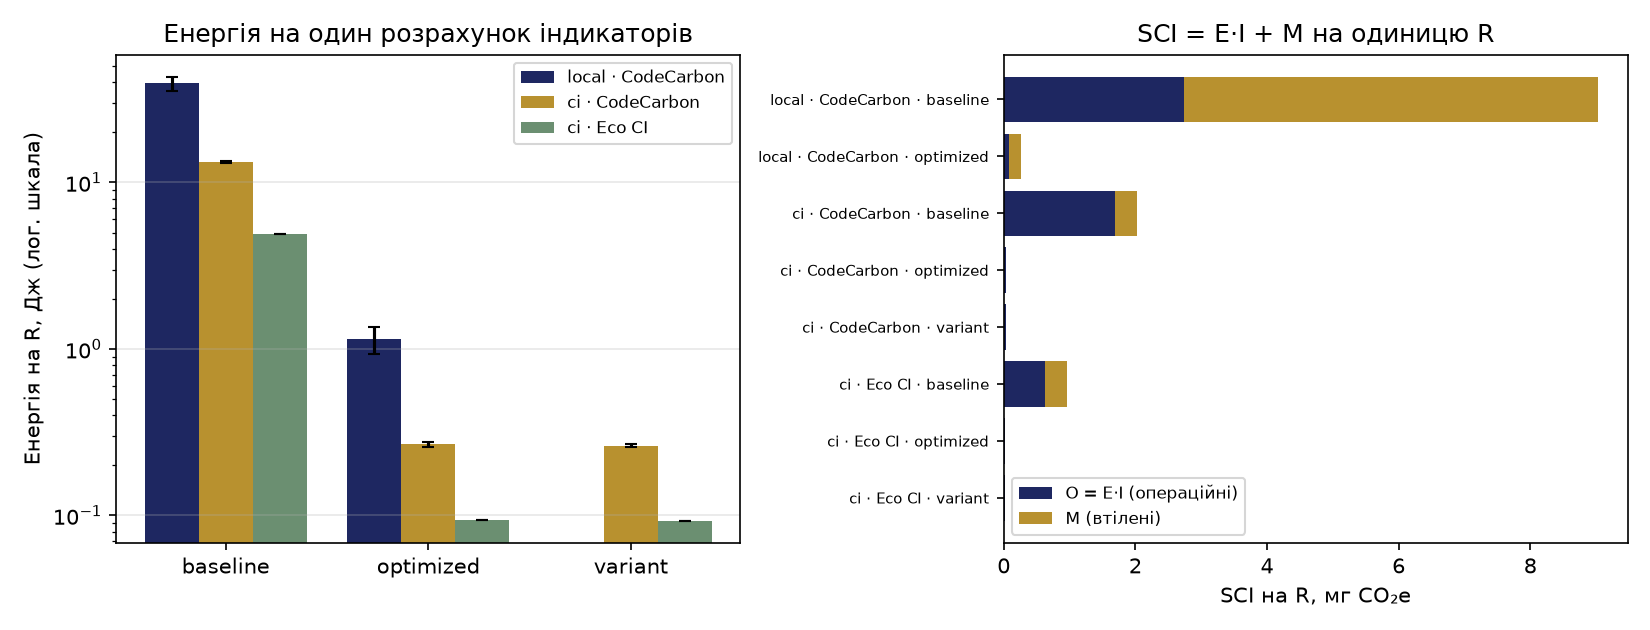
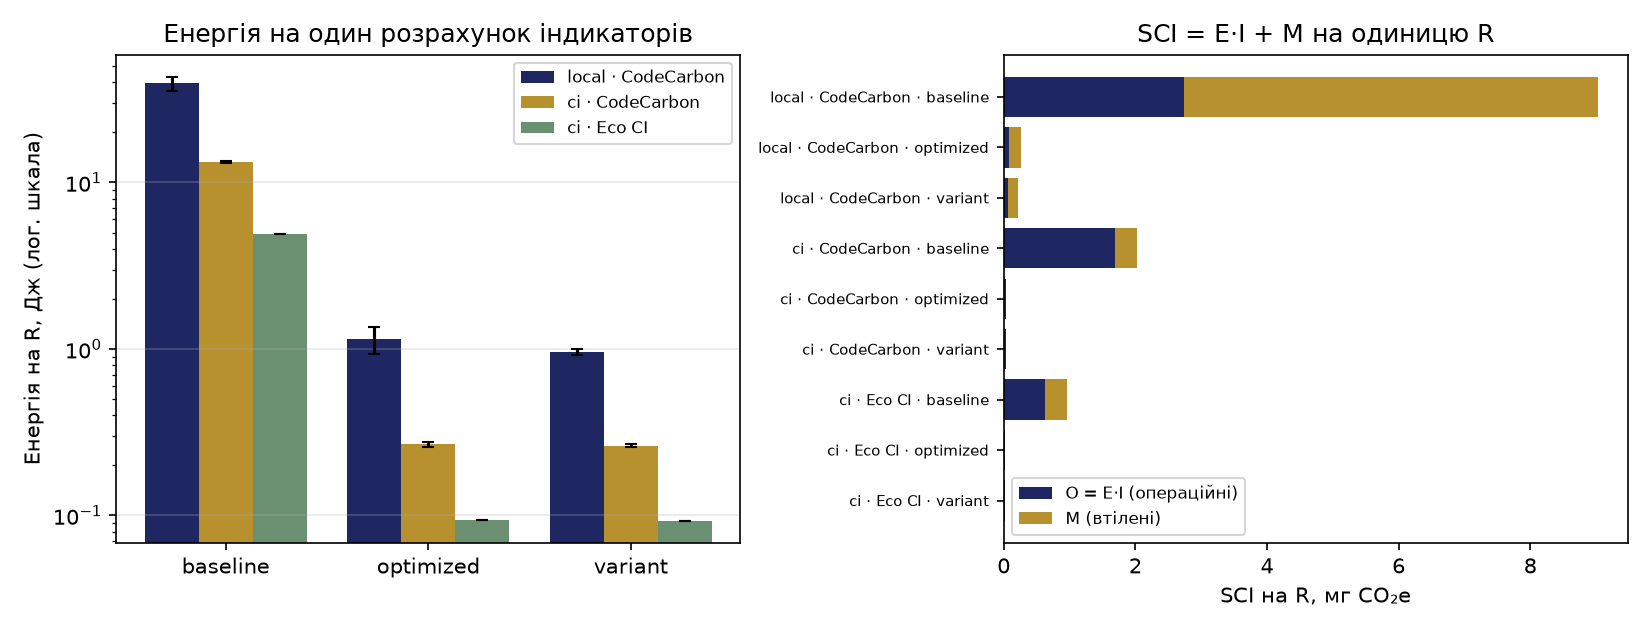
ПЗ6: README, висновки, власний CI, локальний variant

diff --git a/pr6/README.md b/pr6/README.md
@@ -1,61 +1,206 @@
 # ПР6. Вимірювання вуглецевої інтенсивності ПЗ
 
-**Студент:** ПІБ, група  
-**Варіант:** № __ — назва  
-**Дата:** __.__.____
+**Студент:** Костюченко Анастасія, група М УП(кн) 2026-1  
+**Варіант:** № 8 — кешування залежностей pip у CI (`cache: pip`)  
+**Дата:** 12.11.2026
 
 ## 1. Об'єкт і функціональна одиниця
 
-Що вимірюємо (навантаження), функціональна одиниця R,
-версії коду (baseline, optimized, variant) і чим вони відрізняються.
+Навантаження — розрахунок індикаторів якості повітря за щогодинними
+концентраціями PM2.5 (вибірка для двох міст, 2021–2023 рр.): середньорічна
+концентрація, кількість валідних днів, днів вище норми, повнота даних і рівень ВООЗ.
+
+**Функціональна одиниця R** — один повний розрахунок індикаторів (одна репліка бенчмарку).
+
+Версії коду:
+
+- `baseline` — базова реалізація (повільна);
+- `optimized` — оптимізована реалізація, що дає той самий результат
+  (перевірено `python measure.py verify`: «OK: optimized дає той самий результат»);
+- `variant` — варіант 8; код не змінювався, змінюється лише конвеєр CI
+  (кеш pip), тому `variant` і `optimized` у CI збігаються.
 
 ## 2. Середовища і спосіб вимірювання
 
 | | Локально | GitHub Actions |
 |---|---|---|
-| ОС, процесор | | ubuntu-latest, ___ vCPU (репозиторій публічний / приватний), процесор: ___ |
-| Інструмент | CodeCarbon 3.3.2 | Eco CI v5.3.0 + CodeCarbon |
-| Спосіб для CPU (`measure.py check`) | вимір / оцінка: ___ | оцінка |
-| Потужність простою, Вт | | |
+| ОС, процесор | Windows 10, Intel Core i5-1035G1 @ 1,00 ГГц, ноутбук HP 250 G8 | ubuntu-latest (Linux, Azure), 4 vCPU (публічний репозиторій), процесор Intel Xeon Platinum 8370C @ 2,80 ГГц |
+| Інструмент | CodeCarbon 3.3.2 | Eco CI v5.3.0 + CodeCarbon 3.3.2 |
+| Спосіб для CPU (`measure.py check`) | оцінка: `cpu_load` (за завантаженням і TDP = 15 Вт); RAM = 10 Вт — завжди оцінка | оцінка: `cpu_load` (TDP у вимірюваннях 16 Вт; `check` показує 205 Вт цілого процесора); RAM = 10 Вт |
+| Потужність простою, Вт | 11,69 (CodeCarbon) | 11,60 (CodeCarbon); 2,96 (Eco CI) |
 | Інтенсивність мережі I, гCO₂e/кВт·год | 250,47 (Україна, Ember 2022) | 458,29 (світ, Ember 2025) |
 
-Чому `send-data: false` і `OfflineEmissionsTracker` — одним-двома реченнями.
+Формула потужності CodeCarbon у режимі `cpu_load`: P = TDP·(0,1 + 0,9·L³) + P_RAM.
+У простої L ≈ 0, тому P ≈ 15·0,1 + 10 = 11,5 Вт, що збігається з виміряними 11,5–12,1 Вт:
+значна частина «виміряної» потужності — це стала оцінка RAM.
+
+Вимірювання виконувалось без передавання даних назовні: CodeCarbon працює через
+`OfflineEmissionsTracker` (без запитів до зовнішніх API), а в Eco CI задано
+`send-data: false` і `display-badge: false`. Так результати не залежать від мережі
+й не залишають середовище.
+
+Втілені викиди: ноутбук TE = 238 кгCO₂e, EL = 4 роки. Окремого PCF-звіту для HP 250 G8
+не знайдено, тому взято найближчий аналог тієї ж лінійки (HP 250R G9: 280 кгCO₂e усього,
+42 кг — етап використання; TE = 280 − 42 = 238) — це **оцінка**. Раннер: частка серверних
+викидів за vCPU (1151,7 кгCO₂e · 4/128).
+
+**Джерела параметрів SCI:**
+
+- Вуглецева інтенсивність мережі: Ember, Yearly Electricity Data, через Our World in Data —
+  <https://ourworldindata.org/grapher/carbon-intensity-electricity> (Україна 250,47 за 2022 р.;
+  світ 458,29 за 2025 р.).
+- Втілені викиди ноутбука (аналог для HP 250 G8): PCF HP 250R G9 (280 кгCO₂e, з них 42 кг —
+  використання) за даними Bechtle —
+  <https://media.bechtle.com/asrc/180712/1c4b3d4ee288fc9434f5175bf56070570/c3/-/c2da43f778ee437d9528aba847448e0c/hp-250r-g9-c3-8-256gb-co2-information>.
+- Втілені викиди серверного процесора раннера (AMD EPYC 7763, 1151,7 кгCO₂e): Boavizta, як у коді
+  Eco CI v5.3.0.
+- Методика: лекція 6 курсу та ISO/IEC 21031:2024 (SCI).
 
 ## 3. Результати
 
-Таблиця з `results/summary.csv` (E на R з 95 % довірчим інтервалом,
-час на R, потужність, O, M, SCI) і рисунок `reports/figures/energy_sci.png`.
+Таблиця з `results/summary.csv` (енергія на одну одиницю R, 95 % довірчий інтервал,
+час на R, потужність, SCI), рисунок — `reports/figures/energy_sci.png`.
 
-| Джерело | Версія | E на R, Дж | ±95 % | t на R, с | SCI на R, мг CO₂e |
-|---|---|---|---|---|---|
-| | | | | | |
+| Джерело | Версія | n | E на R, Дж | ±95 % | t на R, с | P, Вт | SCI на R, мг CO₂e |
+|---|---|---|---|---|---|---|---|
+| local · CodeCarbon | baseline | 5 | 39,389 | 3,775 | 3,3311 | 11,81 | 9,0255 |
+| local · CodeCarbon | optimized | 5 | 1,148 | 0,216 | 0,0954 | 11,98 | 0,2599 |
+| local · CodeCarbon | variant | 5 | 0,962 | 0,043 | 0,0832 | 11,56 | 0,2239 |
+| ci · CodeCarbon | baseline | 3 | 13,303 | 0,130 | 1,1650 | 11,42 | 2,0259 |
+| ci · CodeCarbon | optimized | 3 | 0,268 | 0,010 | 0,0223 | 12,03 | 0,0405 |
+| ci · CodeCarbon | variant | 3 | 0,263 | 0,005 | 0,0222 | 11,84 | 0,0398 |
+| ci · Eco CI | baseline | 1 | 4,882 | — | 1,1930 | 4,09 | 0,9619 |
+| ci · Eco CI | optimized | 1 | 0,094 | — | 0,0229 | 4,09 | 0,0185 |
+| ci · Eco CI | variant | 1 | 0,093 | — | 0,0227 | 4,09 | 0,0183 |
+
+Для Eco CI n = 1 (результати одного запуску), тому довірчий інтервал не обчислюється.
+
+![Енергія і SCI](reports/figures/energy_sci.png)
 
 ## 4. Порівняння «локально — CI»
 
-- Економія енергії й прискорення optimized/variant відносно baseline
-  в кожному середовищі — чи збігаються?
-- Eco CI проти CodeCarbon на тому самому раннері: у скільки разів
-  відрізняються оцінки потужності й чому.
-- Частка втілених викидів M у SCI для ноутбука і для раннера.
+- **Економія і прискорення** optimized відносно baseline: локально 97,1 % і 34,9× (variant: 97,6 % і 40,0×);
+  в CI (CodeCarbon) 98,0 % і 52,2×; в CI (Eco CI) 98,1 % і 52,1×. Відносна економія
+  в усіх середовищах близька, абсолютні значення різні.
+- **Eco CI проти CodeCarbon на тому самому раннері:** енергія baseline на R —
+  13,303 Дж (CodeCarbon) проти 4,882 Дж (Eco CI), тобто в 2,7 раза; потужність
+  11,42 проти 4,09 Вт (в 2,8 раза). Причина — різні моделі: CodeCarbon додає сталі 10 Вт
+  на RAM і рахує потужність CPU за TDP і завантаженням, а Eco CI використовує модель,
+  побудовану для процесора раннера.
+- **Частка втілених викидів M у SCI:** ноутбук — 69,6 % (baseline) і 69,3 % (optimized);
+  раннер — 16,4 % (CodeCarbon) і 35,4 % (Eco CI). Для ноутбука переважає M через малу
+  операційну енергію й високий TE.
 
 ## 5. Власний CI-конвеєр (ПР1–ПР3)
 
-Енергія та SCI одного запуску конвеєра за даними Eco CI;
-річна оцінка для команди (формула (10)).
+У `ci.yml` додано кроки Eco CI v5.3.0 (`start-measurement` на початку кожного job,
+`get-measurement` з мітками, `display-results` наприкінці; `send-data: false`,
+`display-badge: false`, `co2-calculation-method: constant`,
+`co2-grid-intensity-constant: 458`). Запуск CI #43 після push у main: усі п'ять jobs
+успішні, тривалість 1 хв 8 с. Енергія й SCI одного запуску — сума за jobs:
+
+| Job | Мітки, Дж | E, Дж | SCI, мг CO₂e |
+|---|---|---|---|
+| build-and-test (3.11) | install 28,54 | 28,54 | 5,625 |
+| build-and-test (3.12) | install 15,94 | 15,94 | 3,144 |
+| build-and-test (3.13) | install 46,23; tests 5,28 | 51,51 | 10,065 |
+| build-and-push-image | docker-build 44,45; docker-push 12,45 | 56,90 | 11,256 |
+| deploy | terraform-apply 60,74 | 60,74 | 11,479 |
+| **Разом за запуск** | | **213,63** | **41,569** |
+
+Дуже короткі кроки (flake8, тести в частині jobs) Eco CI не зафіксував. Матриця Python дає
+96,0 Дж (45 %), збірка образу й розгортання — 117,6 Дж (55 %).
+
+**Річна оцінка** за формулою (10): C_рік = N·SCI_запуск, N = n_розр·n_push·n_днів. За
+`git log` за 30 днів: 18 комітів за 5 робочих днів, n_push ≈ 3,6 на день (верхня оцінка,
+бо кілька комітів могли йти одним push), n_розр = 1, n_днів = 220. Тоді N = 792 запуски на рік,
+C_рік = 792·41,569 мг ≈ **32,9 г CO₂e** (енергія ≈ 169 кДж ≈ 0,047 кВт·год). Для прикладу
+з лекції (N = 22 000) — ≈ 0,91 кг CO₂e і ≈ 1,3 кВт·год.
+
+**Три способи зменшити слід** (оцінки за припущеннями в дужках):
+
+1. `paths-ignore` для файлів `.md`, каталогів `pr4/`, `pr5/` і `results` — якщо 25 % push
+   змінюють лише документацію (припущення; перевіряється `git log --name-only`),
+   економія 0,25·32,9 ≈ 8,2 г CO₂e на рік.
+2. Матриця Python: одна версія замість трьох на кожен push (три — лише перед злиттям).
+   SCI матриці 18,83 мг проти ≈ 6,28 мг для однієї версії: економія ≈ 12,56 мг на запуск
+   ≈ 9,9 г на рік (−30 %), ціна — менше покриття тестами.
+3. `concurrency` з `cancel-in-progress: true`: якщо кожен десятий запуск скасовується
+   приблизно на півдорозі (припущення; 11.11 було 8 комітів за день), економія
+   ≈ 0,05·32,9 ≈ 1,6 г на рік.
+
+Кеш pip (розділ 6) доведеного виграшу не дав.
 
 ## 6. Варіант
 
-Що змінено, результати, відповідь на творче питання.
+**Що змінено.** У кроці `actions/setup-python` файлу `pr6-energy.yml` додано
+`cache: pip` і `cache-dependency-path: pr6/requirements.txt`. Код бенчмарку та
+`requirements.txt` не змінювались.
+
+**Результати.** Три запуски «до» (#2–#4) і три «після» з влученням у кеш (#6–#8).
+Перший запуск після зміни (#5) заповнює кеш (cache miss), тому не враховується в «після».
+Показник — енергія кроку `install` за Eco CI:
+
+| Запуск | Стан | E install, Дж | Тривалість, с |
+|---|---|---|---|
+| #2 | до | 79,5339 | 19,62 |
+| #3 | до | 86,467 | 20,64 |
+| #4 | до | 70,7565 | 16,83 |
+| #5 | заповнення кешу (не враховано) | 109,076 | 24,77 |
+| #6 | після (cache hit) | 77,9599 | 17,71 |
+| #7 | після (cache hit) | 89,9738 | 21,73 |
+| #8 | після (cache hit) | 94,9233 | 20,84 |
+
+За n = 3 і t = 4,303: Ē_до = 78,92 Дж (s = 7,87; інтервал 78,92 ± 19,56), Ē_після = 87,62 Дж
+(s = 8,72; інтервал 87,62 ± 21,67). Економія S = (1 − 87,62/78,92)·100 % ≈ **−11,0 %**,
+тобто в середньому крок не став економнішим. Інтервали перекриваються, t-критерій Велча
+дає t ≈ 1,28, p ≈ 0,27 — **різниця не доведена**. Тривалість кроку теж не зменшилась
+(19,0 с до та 20,1 с після). Річний ефект ΔE_рік = N·(Ē_до − Ē_після): для власного N = 792 це ≈ −6,9 кДж
+≈ −0,0019 кВт·год, для N = 22 000 (лекція) — ≈ −0,053 кВт·год, тобто економії в межах
+похибки немає.
+
+**Локально variant** виміряно теж (`python measure.py run variant`, n = 5, R = 1206):
+E = 0,962 ± 0,043 Дж на R, економія 97,6 %, прискорення 40,0×, SCI = 0,2239 мг. Код `variant.py`
+не змінювався, тому відмінність від `optimized` (1,148 ± 0,216 Дж) — шум (одне вимірювання
+optimized зазнало впливу фону); інтервали перекриваються.
+
+> Запуск #1 (автоматичний після push) завис у черзі через затримку на боці GitHub і
+> не враховувався; замість нього виконано ручні запуски Run workflow.
+
+**Творче питання.** *Кеш pip зберігає завантажені пакети, але встановлення все одно
+виконується. Що ще можна кешувати і яку ціну має кеш (місце, «застарілі» залежності)?*
+
+Крім завантажених пакетів кешувати можна готове віртуальне середовище, зібрані колеса
+(wheels), шари Docker-образу, результати збірки та тестів, а також проміжні дані для
+тестів. Кеш pip прибирає лише мережеве завантаження; розпакування й установлення
+пакетів залишаються, тому на невеликому кроці `install` (≈ 20 с) виграш мізерний,
+а шум вимірювання (±20 Дж) його перекриває, що й показав експеримент. Ціна кешу:
+місце (у GitHub є ліміт на розмір кешу репозиторію, старі кеші видаляються),
+«застарілі» залежності (кеш тримає старі версії, доки не зміниться ключ, тобто
+`requirements.txt`), додаткові кроки збереження й відновлення, які теж коштують енергії,
+і ризик невідтворюваності, коли результат залежить від стану кешу. Кеш виграє, коли
+залежностей багато, а запусків часто; майже нічого не дає, коли залежностей мало.
 
 ## 7. Висновки й обмеження
 
-Кожне твердження — з числом. Обмеження методики
-(оцінка чи вимір, модель RAM, невідомий регіон раннера тощо).
+1. Оптимізована версія споживає на одиницю R в 34,9–52,2 раза менше енергії, ніж базова
+   (економія 97,1–98,1 % у трьох джерелах); локальний SCI знизився з 9,0255 до 0,2599 мг CO₂e.
+2. Абсолютні оцінки залежать від інструмента: на одному раннері CodeCarbon дає енергію
+   baseline в 2,7 раза більшу, ніж Eco CI (13,303 проти 4,882 Дж), а відносна економія
+   збігається (98,0 % проти 98,1 %).
+3. Кешування pip (варіант 8) не дало доведеної економії кроку `install`: −11,0 %, p ≈ 0,27.
+   Власний CI: 213,63 Дж і 41,569 мг CO₂e на запуск, ≈ 32,9 г CO₂e на рік (N = 792).
+4. Обмеження: `cpu_load` — оцінка, а не вимірювання; RAM у моделі — стала оцінка 10 Вт;
+   потужність у режимах idle/baseline/optimized майже однакова (11,7–12,0 Вт), тому
+   різниця між версіями виникає через кількість повторів за час; TE ноутбука 238 кг —
+   оцінка за аналогом (PCF для HP 250 G8 немає); регіон раннера невідомий, тому
+   I = 458,29 (світове значення); для України використано дані за 2022 р.;
+   у CI по три запуски на групу, інтервали широкі (t = 4,303), у Eco CI n = 1; одне
+   локальне вимірювання optimized (13,1 Вт, 180 повторів) зазнало впливу фону (розкид E ≈ 12 %).
 
 ## 8. Використання ШІ
 
-Інструмент, запити, що перевірено й виправлено вручну.
-
+Не використовувався
 ---
 Дані: «Щогодинні концентрації PM2.5…» (ГО «SaveDnipro», data.gov.ua,
 CC BY), вибірка для Києва і Харкова, 2021–2023 рр.
